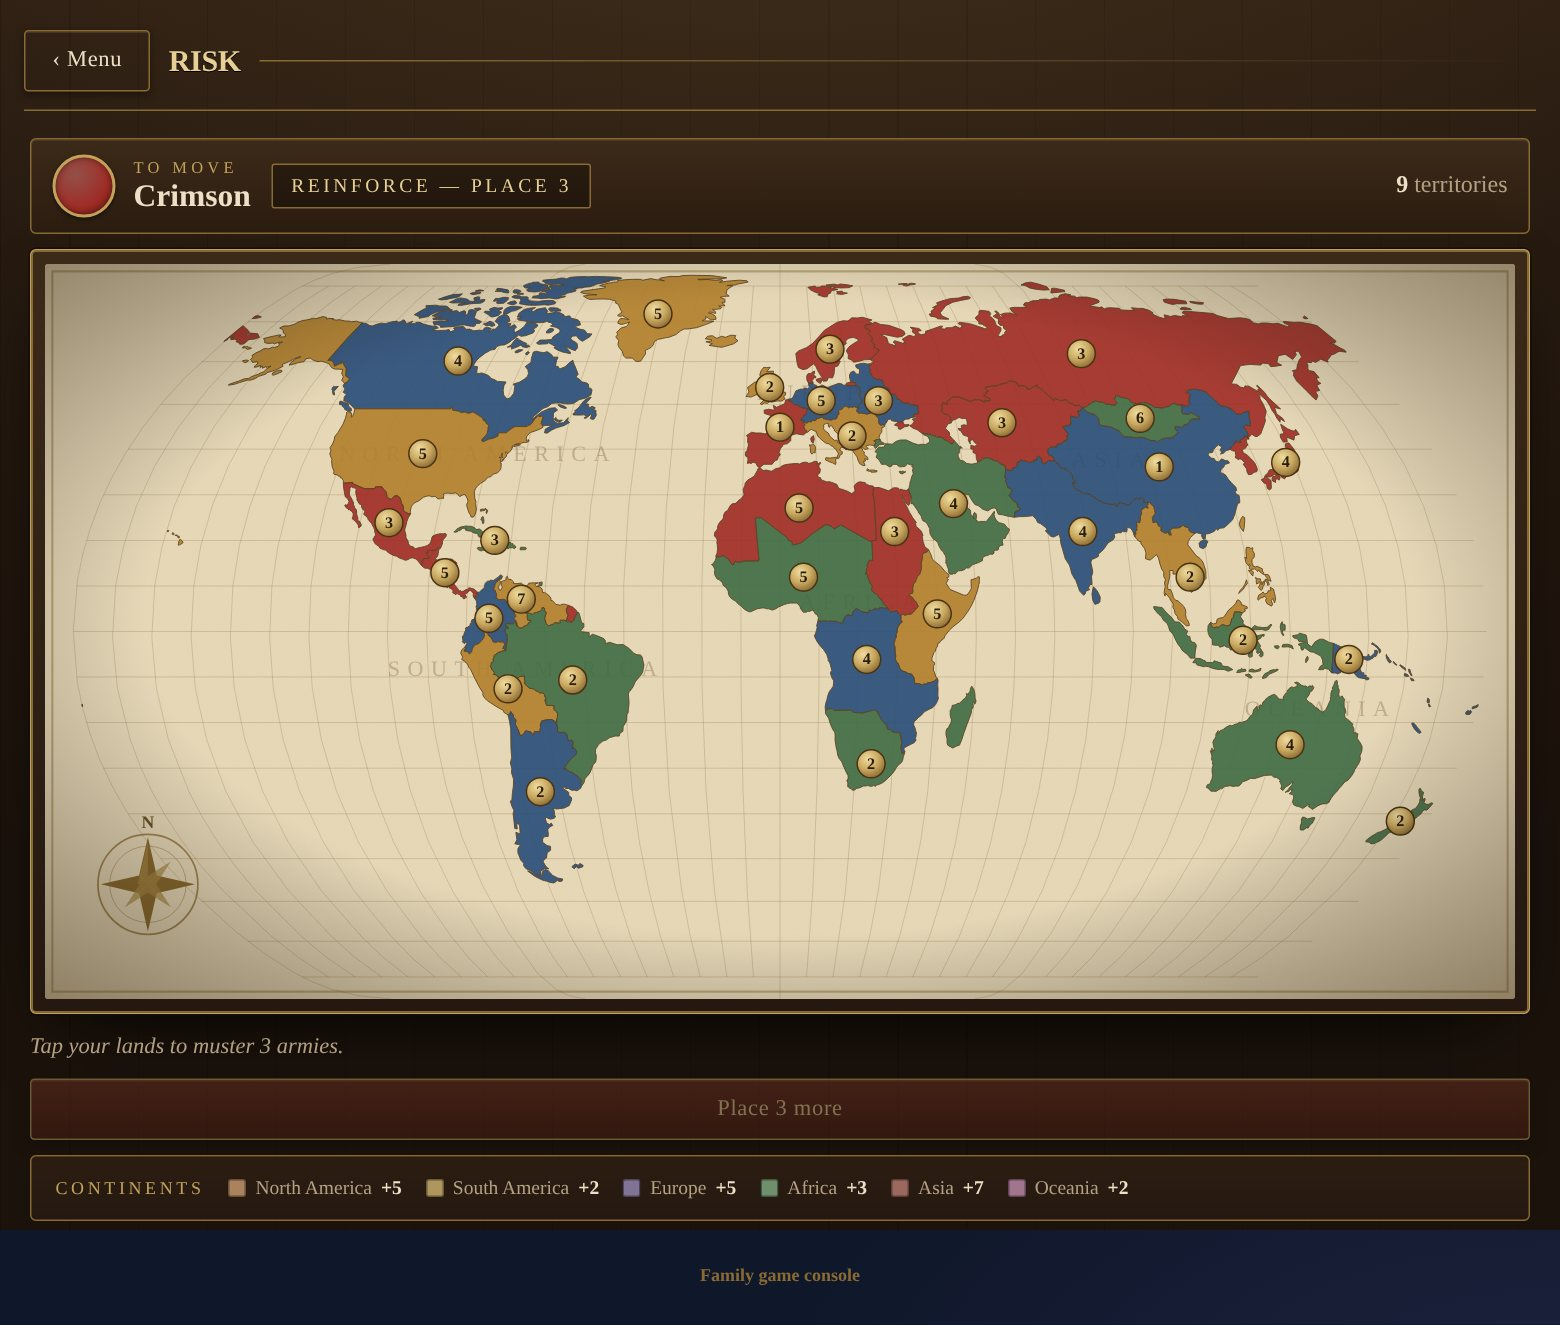
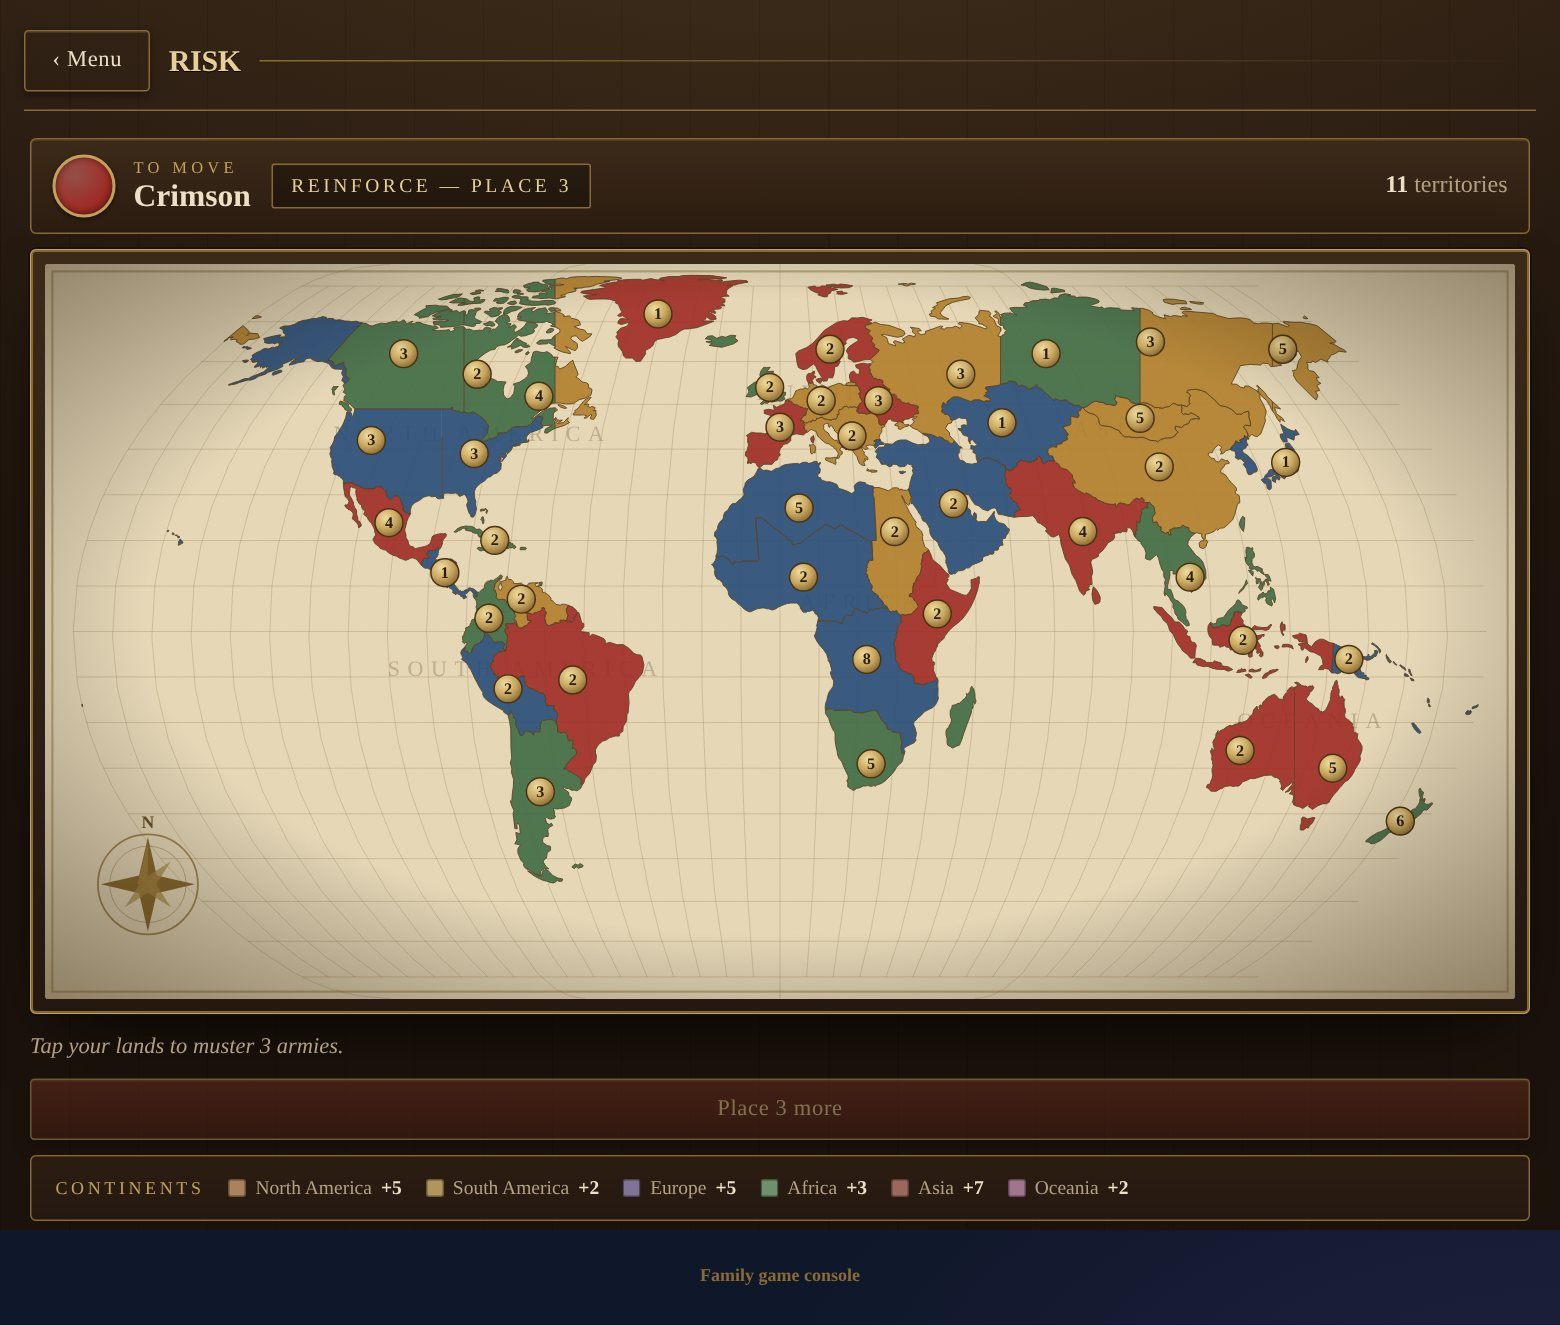
Break up the big countries into classic-Risk regions
Like the real board, Russia (Ural / Siberia / Yakutsk / Kamchatka), the USA
(Western / Eastern), Canada (Western / Central / Eastern), and Australia
(Western / Eastern) are now separate territories instead of one block each.
Country data has no sub-national borders, so each big country is drawn once and
clipped into regions by screen-space bands, with the internal Risk dividing
lines drawn over the land (and clipped to it). Adjacency re-authored to match,
including the Alaska↔Kamchatka sea route. The map is now 42 territories — the
classic Risk count. China stays a single territory, as on the real board.

Claude-Session: https://claude.ai/code/session_01Pet5917XAbMAsbQM47tWg6

Changed region(s): [[0.4615, 0.2166, 0.8923, 0.6189], [0.1538, 0.1857, 0.4615, 0.4023], [0.2769, 0.4332, 0.4308, 0.6808]]

diff --git a/src/games/risk/maps/world.ts b/src/games/risk/maps/world.ts
@@ -1,10 +1,11 @@
 /**
- * The World map. Every landmass belongs to a territory, and a territory is a
- * *group* of real countries merged with `topojson.merge` so the internal
- * borders dissolve into one clean regional outline. The continents therefore
- * read as solid shapes divided into Risk-style regions — real geography, no
- * gaps — all bundled (world-atlas / Natural Earth, MIT) and projected with
- * `d3-geo`. No tiles, works offline.
+ * The World map. Most territories are a *group* of real countries merged with
+ * `topojson.merge` into one clean regional outline, so the continents fill
+ * solidly with no gaps. The handful of countries that classic Risk breaks up —
+ * Russia, the USA, Canada, Australia — are split into regions by clipping the
+ * projected country to screen-space bands, with the internal Risk lines drawn
+ * over the land. All geometry is bundled (world-atlas / Natural Earth, MIT) and
+ * projected with `d3-geo`; no tiles, works offline.
  *
  * The engine never sees any of this — only the derived topology.
  */
@@ -14,17 +15,7 @@ import { merge } from 'topojson-client';
 import type { GeometryCollection, MultiPolygon, Polygon, Topology } from 'topojson-specification';
 import countries110m from 'world-atlas/countries-110m.json';
 import type { MapTopology } from '../domain/types';
-import type { RenderedContinent, RenderedTerritory, RiskMap, RiskMapModule } from './types';
-
-interface TerritoryDef {
-  id: string;
-  name: string;
-  continentId: string;
-  /** ISO numeric ids (world-atlas) of the countries that make up this region. */
-  iso: string[];
-  labelLon?: number;
-  labelLat?: number;
-}
+import type { ClipRect, MapDivider, RenderedContinent, RenderedTerritory, RiskMap, RiskMapModule } from './types';
 
 const CONTINENTS: RenderedContinent[] = [
   { id: 'na', name: 'North America', bonus: 5, color: '#c98a52' },
@@ -35,40 +26,46 @@ const CONTINENTS: RenderedContinent[] = [
   { id: 'oc', name: 'Oceania', bonus: 2, color: '#c07aa0' },
 ];
 
-const TERRITORIES: TerritoryDef[] = [
-  // ── North America ──
-  { id: 'canada', name: 'Canada', continentId: 'na', iso: ['124'], labelLon: -100, labelLat: 60 },
-  { id: 'usa', name: 'United States', continentId: 'na', iso: ['840'], labelLon: -98, labelLat: 39 },
+/** A whole-region territory: a group of countries merged into one outline. */
+interface GroupDef {
+  id: string; name: string; continentId: string; iso: string[];
+  labelLon?: number; labelLat?: number;
+}
+
+/** A big country carved into classic-Risk regions by screen-space bands. */
+interface SplitDef {
+  baseIso: string; continentId: string;
+  subs: { id: string; name: string; rects: ClipRect[]; labelLon: number; labelLat: number }[];
+  dividers: [number, number, number, number][];
+}
+
+const GROUPS: GroupDef[] = [
+  // North America
   { id: 'greenland', name: 'Greenland', continentId: 'na', iso: ['304'], labelLon: -42, labelLat: 72 },
   { id: 'mexico', name: 'Mexico', continentId: 'na', iso: ['484'] },
   { id: 'centralamerica', name: 'Central America', continentId: 'na', iso: ['320', '084', '340', '222', '558', '188', '591'], labelLon: -86, labelLat: 13 },
   { id: 'caribbean', name: 'Caribbean', continentId: 'na', iso: ['192', '332', '214', '388', '044', '630', '780'], labelLon: -74, labelLat: 20 },
-
-  // ── South America ──
+  // South America
   { id: 'colombia', name: 'Colombia', continentId: 'sa', iso: ['170', '218'] },
   { id: 'venezuela', name: 'Venezuela', continentId: 'sa', iso: ['862', '328', '740'], labelLon: -66, labelLat: 7 },
   { id: 'peru', name: 'Peru', continentId: 'sa', iso: ['604', '068'] },
   { id: 'brazil', name: 'Brazil', continentId: 'sa', iso: ['076'] },
   { id: 'argentina', name: 'Argentina', continentId: 'sa', iso: ['032', '152', '858', '600', '238'], labelLon: -65, labelLat: -35 },
-
-  // ── Europe ──
+  // Europe
   { id: 'britain', name: 'Britain', continentId: 'eu', iso: ['826', '372', '352'], labelLon: -3, labelLat: 54 },
   { id: 'scandinavia', name: 'Scandinavia', continentId: 'eu', iso: ['578', '752', '246', '208'], labelLon: 16, labelLat: 63 },
   { id: 'westeurope', name: 'Western Europe', continentId: 'eu', iso: ['250', '724', '620'], labelLon: 0, labelLat: 45 },
   { id: 'centraleurope', name: 'Central Europe', continentId: 'eu', iso: ['276', '528', '056', '442', '756', '040', '203', '616'], labelLon: 12, labelLat: 51 },
   { id: 'southeurope', name: 'Southern Europe', continentId: 'eu', iso: ['380', '300', '008', '807', '688', '499', '070', '191', '705', '642', '100', '348', '703'], labelLon: 20, labelLat: 43 },
   { id: 'easteurope', name: 'Eastern Europe', continentId: 'eu', iso: ['804', '112', '498', '428', '440', '233'], labelLon: 29, labelLat: 51 },
-
-  // ── Africa ──
+  // Africa
   { id: 'northafrica', name: 'North Africa', continentId: 'af', iso: ['504', '012', '788', '434', '732', '478'], labelLon: 5, labelLat: 27 },
   { id: 'egypt', name: 'Egypt & Sudan', continentId: 'af', iso: ['818', '729', '728'], labelLon: 30, labelLat: 22 },
   { id: 'westafrica', name: 'West Africa', continentId: 'af', iso: ['466', '562', '566', '148', '686', '624', '324', '694', '430', '384', '854', '288', '768', '204', '120', '140', '270'], labelLon: 6, labelLat: 12 },
   { id: 'eastafrica', name: 'East Africa', continentId: 'af', iso: ['231', '232', '262', '706', '404', '800', '834', '646', '108'], labelLon: 40, labelLat: 4 },
   { id: 'centralafrica', name: 'Central Africa', continentId: 'af', iso: ['180', '178', '266', '226', '024', '894', '454', '508', '716'], labelLon: 22, labelLat: -6 },
   { id: 'southafrica', name: 'South Africa', continentId: 'af', iso: ['710', '516', '072', '426', '748', '450'], labelLon: 24, labelLat: -29 },
-
-  // ── Asia ──
-  { id: 'russia', name: 'Russia', continentId: 'as', iso: ['643'], labelLon: 95, labelLat: 62 },
+  // Asia
   { id: 'centralasia', name: 'Central Asia', continentId: 'as', iso: ['398', '860', '795', '762', '417'], labelLon: 63, labelLat: 46 },
   { id: 'middleeast', name: 'Middle East', continentId: 'as', iso: ['792', '760', '368', '364', '400', '376', '422', '682', '887', '512', '784', '634', '414', '275', '051', '268', '031', '196'], labelLon: 46, labelLat: 28 },
   { id: 'india', name: 'India', continentId: 'as', iso: ['356', '586', '050', '524', '064', '144', '004'], labelLon: 79, labelLat: 22 },
@@ -76,18 +73,57 @@ const TERRITORIES: TerritoryDef[] = [
   { id: 'mongolia', name: 'Mongolia', continentId: 'as', iso: ['496'] },
   { id: 'seasia', name: 'Southeast Asia', continentId: 'as', iso: ['104', '764', '418', '116', '704', '458', '096', '608', '158'], labelLon: 105, labelLat: 12 },
   { id: 'japan', name: 'Japan & Korea', continentId: 'as', iso: ['392', '410', '408'], labelLon: 138, labelLat: 37 },
-
-  // ── Oceania ──
+  // Oceania
   { id: 'indonesia', name: 'Indonesia', continentId: 'oc', iso: ['360', '626'], labelLon: 118, labelLat: -2 },
   { id: 'papua', name: 'New Guinea', continentId: 'oc', iso: ['598', '090', '548', '540', '242'], labelLon: 145, labelLat: -6 },
-  { id: 'australia', name: 'Australia', continentId: 'oc', iso: ['036'], labelLon: 134, labelLat: -25 },
   { id: 'newzealand', name: 'New Zealand', continentId: 'oc', iso: ['554'] },
 ];
 
-/** Undirected borders — land where the regions touch, plus classic sea routes. */
+const SPLITS: SplitDef[] = [
+  {
+    baseIso: '643', continentId: 'as', // Russia → Ural / Siberia / Yakutsk / Kamchatka
+    subs: [
+      { id: 'ural', name: 'Ural', rects: [[500, 0, 150, 160]], labelLon: 55, labelLat: 57 },
+      { id: 'siberia', name: 'Siberia', rects: [[650, 0, 95, 160]], labelLon: 84, labelLat: 62 },
+      { id: 'yakutsk', name: 'Yakutsk', rects: [[745, 0, 90, 160]], labelLon: 120, labelLat: 65 },
+      { id: 'kamchatka', name: 'Kamchatka', rects: [[835, 0, 175, 160], [0, 0, 220, 160]], labelLon: 160, labelLat: 63 },
+    ],
+    dividers: [[650, 5, 650, 135], [745, 5, 745, 135], [835, 5, 835, 135]],
+  },
+  {
+    baseIso: '840', continentId: 'na', // USA → Western / Eastern
+    subs: [
+      { id: 'westernus', name: 'Western US', rects: [[0, 0, 270, 260]], labelLon: -114, labelLat: 42 },
+      { id: 'easternus', name: 'Eastern US', rects: [[270, 0, 150, 260]], labelLon: -84, labelLat: 39 },
+    ],
+    dividers: [[270, 118, 270, 200]],
+  },
+  {
+    baseIso: '124', continentId: 'na', // Canada → Western / Central / Eastern
+    subs: [
+      { id: 'westerncanada', name: 'Western Canada', rects: [[0, 0, 285, 140]], labelLon: -119, labelLat: 62 },
+      { id: 'centralcanada', name: 'Central Canada', rects: [[285, 0, 62, 140]], labelLon: -92, labelLat: 57 },
+      { id: 'easterncanada', name: 'Eastern Canada', rects: [[347, 0, 170, 140]], labelLon: -71, labelLat: 52 },
+    ],
+    dividers: [[285, 8, 285, 128], [347, 8, 347, 128]],
+  },
+  {
+    baseIso: '036', continentId: 'oc', // Australia → Western / Eastern
+    subs: [
+      { id: 'westernaustralia', name: 'Western Australia', rects: [[700, 260, 150, 160]], labelLon: 121, labelLat: -26 },
+      { id: 'easternaustralia', name: 'Eastern Australia', rects: [[850, 260, 200, 160]], labelLon: 147, labelLat: -30 },
+    ],
+    dividers: [[850, 288, 850, 384]],
+  },
+];
+
+/** Undirected borders — land where regions touch, plus classic sea routes. */
 const EDGES: [string, string][] = [
   // North America
-  ['canada', 'usa'], ['canada', 'greenland'], ['usa', 'mexico'], ['usa', 'caribbean'],
+  ['westerncanada', 'centralcanada'], ['centralcanada', 'easterncanada'], ['easterncanada', 'greenland'],
+  ['westerncanada', 'westernus'], ['centralcanada', 'westernus'], ['centralcanada', 'easternus'], ['easterncanada', 'easternus'],
+  ['westernus', 'easternus'], ['westernus', 'mexico'], ['easternus', 'mexico'], ['easternus', 'caribbean'],
+  ['westernus', 'kamchatka'], // Alaska ↔ Kamchatka
   ['mexico', 'centralamerica'], ['mexico', 'caribbean'], ['centralamerica', 'caribbean'],
   ['centralamerica', 'colombia'], ['caribbean', 'venezuela'], ['greenland', 'britain'],
   // South America
@@ -99,24 +135,37 @@ const EDGES: [string, string][] = [
   ['westeurope', 'centraleurope'], ['westeurope', 'southeurope'], ['westeurope', 'northafrica'],
   ['centraleurope', 'southeurope'], ['centraleurope', 'easteurope'],
   ['southeurope', 'easteurope'], ['southeurope', 'egypt'], ['southeurope', 'middleeast'],
-  ['easteurope', 'russia'], ['easteurope', 'middleeast'],
+  ['easteurope', 'ural'], ['easteurope', 'middleeast'],
   // Africa
   ['northafrica', 'westafrica'], ['northafrica', 'egypt'], ['egypt', 'eastafrica'], ['egypt', 'middleeast'],
   ['westafrica', 'centralafrica'], ['westafrica', 'eastafrica'], ['eastafrica', 'centralafrica'],
   ['eastafrica', 'southafrica'], ['eastafrica', 'middleeast'], ['centralafrica', 'southafrica'],
-  // Asia
-  ['russia', 'centralasia'], ['russia', 'mongolia'], ['russia', 'china'], ['russia', 'japan'],
+  // Asia — Russia
+  ['ural', 'centralasia'], ['ural', 'siberia'], ['siberia', 'yakutsk'], ['yakutsk', 'kamchatka'],
+  ['siberia', 'centralasia'], ['siberia', 'mongolia'], ['siberia', 'china'],
+  ['yakutsk', 'mongolia'], ['kamchatka', 'mongolia'], ['kamchatka', 'japan'],
+  // Asia — rest
   ['centralasia', 'middleeast'], ['centralasia', 'india'], ['centralasia', 'china'], ['centralasia', 'mongolia'],
   ['middleeast', 'india'], ['india', 'china'], ['india', 'seasia'],
   ['china', 'mongolia'], ['china', 'seasia'], ['china', 'japan'], ['seasia', 'japan'],
   // Oceania
-  ['seasia', 'indonesia'], ['indonesia', 'papua'], ['indonesia', 'australia'],
-  ['papua', 'australia'], ['australia', 'newzealand'],
+  ['seasia', 'indonesia'], ['indonesia', 'papua'], ['indonesia', 'westernaustralia'],
+  ['papua', 'easternaustralia'], ['westernaustralia', 'easternaustralia'], ['easternaustralia', 'newzealand'],
 ];
 
+/** Every territory id (groups + split sub-regions) with its continent. */
+function allTerritories(): { id: string; continentId: string }[] {
+  return [
+    ...GROUPS.map((g) => ({ id: g.id, continentId: g.continentId })),
+    ...SPLITS.flatMap((s) => s.subs.map((sub) => ({ id: sub.id, continentId: s.continentId }))),
+  ];
+}
+
 function buildTopology(): MapTopology {
+  const all = allTerritories();
+  const ids = all.map((t) => t.id);
   const adjacency: Record<string, string[]> = {};
-  for (const t of TERRITORIES) adjacency[t.id] = [];
+  for (const id of ids) adjacency[id] = [];
   for (const [a, b] of EDGES) {
     adjacency[a].push(b);
     adjacency[b].push(a);
@@ -124,12 +173,12 @@ function buildTopology(): MapTopology {
   return {
     id: 'world',
     name: 'World',
-    territoryIds: TERRITORIES.map((t) => t.id),
+    territoryIds: ids,
     continents: CONTINENTS.map((c) => ({
       id: c.id,
       name: c.name,
       bonus: c.bonus,
-      territoryIds: TERRITORIES.filter((t) => t.continentId === c.id).map((t) => t.id),
+      territoryIds: all.filter((t) => t.continentId === c.id).map((t) => t.id),
     })),
     adjacency,
   };
@@ -150,26 +199,37 @@ function build(): RiskMap {
   const projection = geoNaturalEarth1().fitSize([WIDTH, HEIGHT], { type: 'Sphere' });
   const path = geoPath(projection);
 
+  const project = (lon: number, lat: number, fallback: [number, number]): [number, number] =>
+    projection([lon, lat]) ?? fallback;
+
   const territories: RenderedTerritory[] = [];
-  for (const def of TERRITORIES) {
+
+  // Merged country groups.
+  for (const def of GROUPS) {
     const parts = def.iso.map((id) => byId.get(id)).filter(Boolean) as (Polygon | MultiPolygon)[];
     if (parts.length === 0) continue;
-    // Dissolve the member countries into one clean regional outline.
     const shape = merge(topo, parts);
     const d = path(shape) ?? '';
     let [lx, ly] = path.centroid(shape);
-    if (def.labelLon !== undefined && def.labelLat !== undefined) {
-      const p = projection([def.labelLon, def.labelLat]);
-      if (p) [lx, ly] = p;
+    if (def.labelLon !== undefined && def.labelLat !== undefined) [lx, ly] = project(def.labelLon, def.labelLat, [lx, ly]);
+    territories.push({ id: def.id, name: def.name, continentId: def.continentId, path: d, labelX: Math.round(lx), labelY: Math.round(ly) });
+  }
+
+  // Split countries: one shared outline, clipped per region.
+  const dividers: MapDivider[] = [];
+  for (const split of SPLITS) {
+    const base = byId.get(split.baseIso);
+    if (!base) continue;
+    const shape = merge(topo, [base as Polygon | MultiPolygon]);
+    const d = path(shape) ?? '';
+    for (const sub of split.subs) {
+      const [lx, ly] = project(sub.labelLon, sub.labelLat, path.centroid(shape));
+      territories.push({
+        id: sub.id, name: sub.name, continentId: split.continentId,
+        path: d, clip: sub.rects, labelX: Math.round(lx), labelY: Math.round(ly),
+      });
     }
-    territories.push({
-      id: def.id,
-      name: def.name,
-      continentId: def.continentId,
-      path: d,
-      labelX: Math.round(lx),
-      labelY: Math.round(ly),
-    });
+    dividers.push({ clip: d, lines: split.dividers });
   }
 
   cached = {
@@ -180,6 +240,7 @@ function build(): RiskMap {
     topology: buildTopology(),
     continents: CONTINENTS,
     territories,
+    dividers,
     graticule: path(geoGraticule10()) ?? '',
   };
   return cached;

diff --git a/src/games/risk/components/RiskBoard.tsx b/src/games/risk/components/RiskBoard.tsx
@@ -62,11 +62,35 @@ export function RiskBoard({ map, state, selected, targets, onPick }: RiskBoardPr
           const cls = ['risk-terr', selected === t.id ? 'sel' : '', targets.has(t.id) ? 'target' : '']
             .filter(Boolean).join(' ');
           return (
-            <path key={t.id} d={t.path} className={cls} fill={fill} onClick={() => onPick(t.id)} data-testid={`terr-${t.id}`}>
-              <title>{t.name}</title>
-            </path>
+            <g key={t.id}>
+              {t.clip && (
+                <clipPath id={`clip-${t.id}`}>
+                  {t.clip.map((r, i) => <rect key={i} x={r[0]} y={r[1]} width={r[2]} height={r[3]} />)}
+                </clipPath>
+              )}
+              <path
+                d={t.path}
+                className={cls}
+                fill={fill}
+                clipPath={t.clip ? `url(#clip-${t.id})` : undefined}
+                onClick={() => onPick(t.id)}
+                data-testid={`terr-${t.id}`}
+              >
+                <title>{t.name}</title>
+              </path>
+            </g>
           );
         })}
+
+        {/* Internal Risk lines over the split countries. */}
+        {map.dividers.map((dv, i) => (
+          <g key={`dv-${i}`} className="risk-divider">
+            <clipPath id={`dvclip-${i}`}><path d={dv.clip} /></clipPath>
+            <g clipPath={`url(#dvclip-${i})`}>
+              {dv.lines.map((l, j) => <line key={j} x1={l[0]} y1={l[1]} x2={l[2]} y2={l[3]} />)}
+            </g>
+          </g>
+        ))}
 
         {map.territories.map((t) => {
           const st = state.territories[t.id];

diff --git a/src/games/risk/maps/types.ts b/src/games/risk/maps/types.ts
@@ -15,15 +15,31 @@ export interface RenderedContinent {
   color: string;
 }
 
+/** A clip rectangle in map pixel space: [x, y, width, height]. */
+export type ClipRect = [number, number, number, number];
+
 export interface RenderedTerritory {
   id: string;
   name: string;
   continentId: string;
   /** SVG path `d` for the territory outline (already projected to pixels). */
   path: string;
+  /**
+   * When a territory is one region of a larger country (e.g. Western Canada),
+   * `path` is the whole country and these rectangles clip it to this region.
+   */
+  clip?: ClipRect[];
   /** Anchor for the army badge / label, in the same pixel space. */
   labelX: number;
   labelY: number;
+}
+
+/** Internal Risk-style dividing lines drawn over a split country. */
+export interface MapDivider {
+  /** The country outline `d` used to clip the lines to the land. */
+  clip: string;
+  /** Line segments [x1, y1, x2, y2]. */
+  lines: [number, number, number, number][];
 }
 
 export interface RiskMap {
@@ -34,6 +50,8 @@ export interface RiskMap {
   topology: MapTopology;
   continents: RenderedContinent[];
   territories: RenderedTerritory[];
+  /** Internal dividing lines for split countries (Russia, USA, Canada, …). */
+  dividers: MapDivider[];
   /** Projected lat/long graticule as an SVG path — a faint antique map grid. */
   graticule: string;
 }

diff --git a/src/games/risk/styles/risk.css b/src/games/risk/styles/risk.css
@@ -112,6 +112,7 @@
 
 .risk-badge { cursor: pointer; }
 .risk-badge > text { pointer-events: none; }
+.risk-divider line { stroke: #5b4425; stroke-width: 0.6; pointer-events: none; }
 .risk-token { fill: url(#risk-brass); }
 .risk-token-ring { fill: none; stroke: #4a3212; stroke-width: 1; }
 .risk-token-num {
